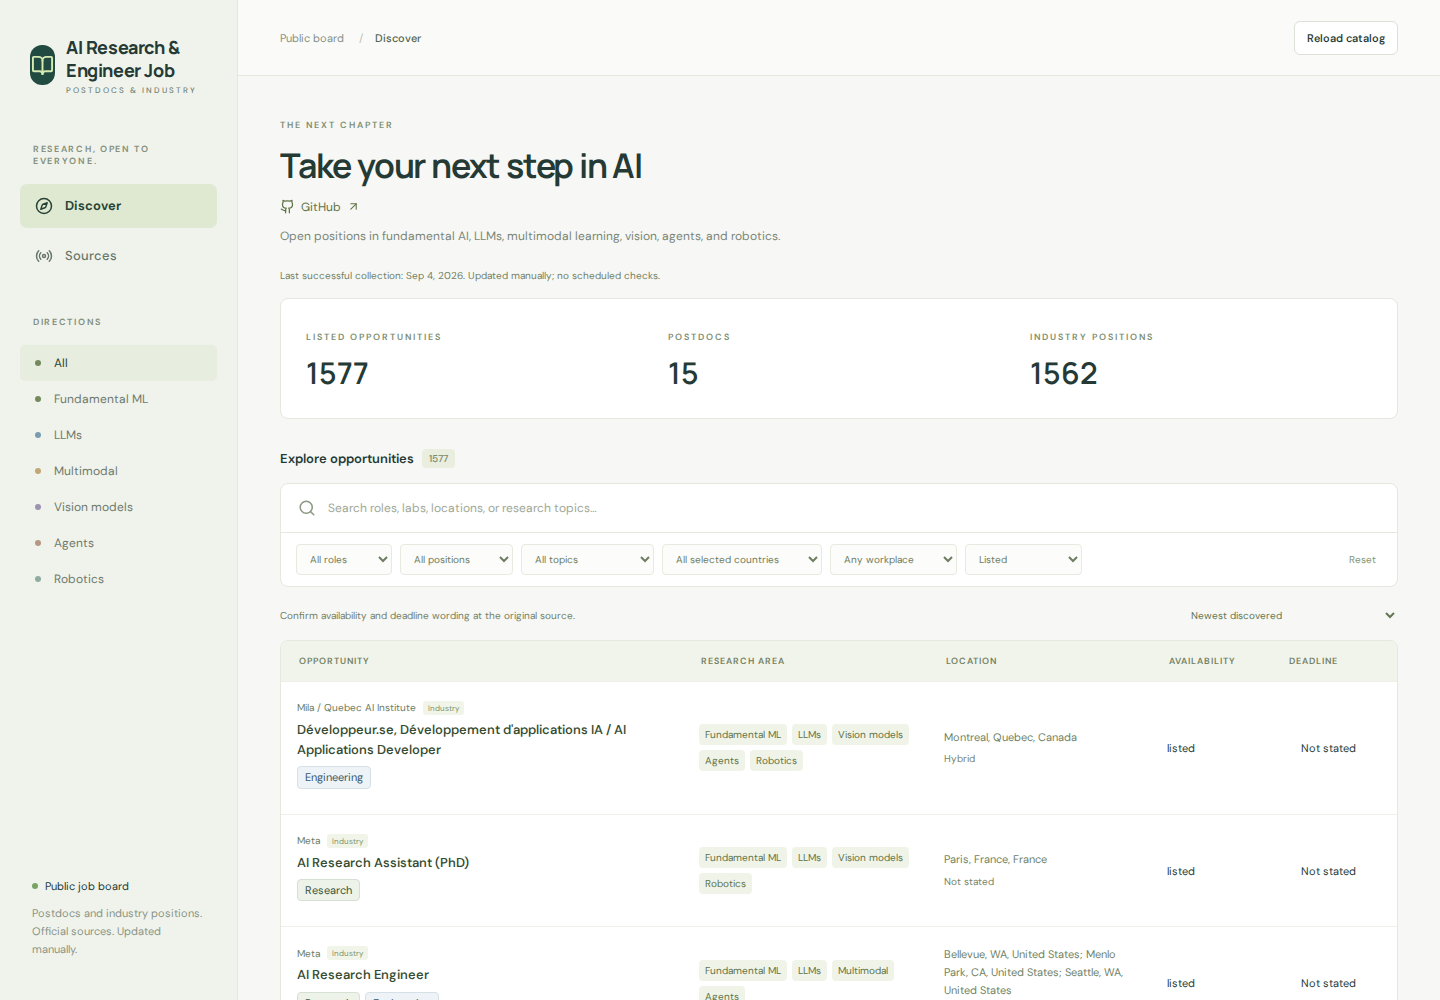
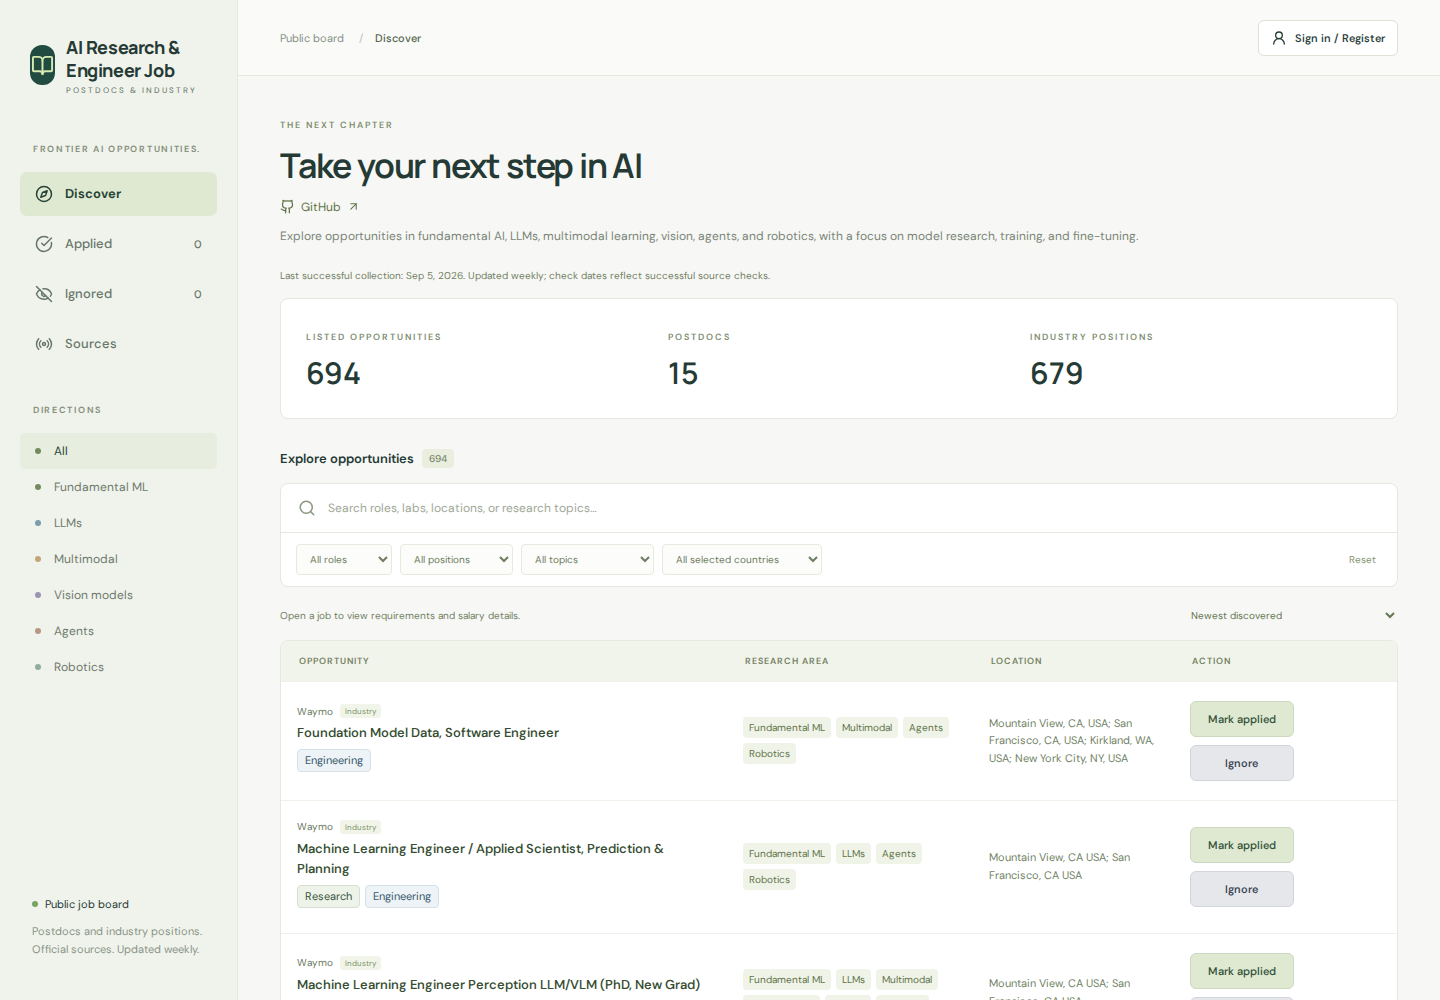
Publish public research opportunities

diff --git a/README.md b/README.md
@@ -2,14 +2,16 @@
 
 **Take your next step in AI.** Discover postdoctoral and industry opportunities
 across AI research and engineering, with searchable listings and links to the
-original employers.
+original employers. The focus is work that advances AI models and methods,
+including training, fine-tuning, evaluation research, and closely related systems—not
+roles that only integrate existing AI tools.
 
 ### [Open the job board →](https://ageyy.github.io/ai-career-tracker-public/)
 
 No account is needed to browse. Applications are made through the original
 posting, not through this website.
 
-![The AI job board showing search and filters, source verification dates, and a table of opportunities](website-preview.png)
+![The public AI job board with direction and position filters, Sign in, and Mark applied and Ignore actions](website-preview.png)
 
 *Public website screenshot captured September 5, 2026 (UTC). Listings and counts may
 change after an update.*
@@ -62,8 +64,8 @@ session) can erase it. Anyone with access to your browser profile can read it.
 Browser storage is shared by sites on the same origin; it is not account-level
 access control.
 
-When account login is enabled, **Sign in / Register** in the upper-right corner
-offers email/password login. Signup requires an email verification code; ordinary
+Choose **Sign in / Register** in the upper-right corner to log in or create an account using
+your email address and a password. Signup requires an email verification code; ordinary
 login does not. **Forgot password?** sends a recovery code to set a new password.
 Existing passwordless users can use it to set their first password. **My account**
 contains the account controls. Signed-in Applied/Ignored decisions sync through a private Supabase database.
@@ -74,7 +76,28 @@ decisions win, and browser copies stay unchanged. Signing out restores that sepa
 browser history. You can export account history or permanently delete the account.
 Authorized service administrators can access stored account data. Sign out on
 shared devices; browser sessions are not isolated from other scripts on the same
-origin. If login is not configured, browser-only saving remains available.
+origin. Registration is currently capped at **1,000 accounts**; browsing and
+browser-only saving remain available without registering.
+
+## Weekly email updates
+
+Weekly emails are **live and opt-in**. Signing up does not automatically subscribe you.
+
+1. Sign in and open **My account** in the upper-right corner.
+2. Under **Weekly email updates**, check **Receive weekly job updates**.
+3. Updates go to your account email—no separate email address is needed.
+
+After a successful Monday update is published, subscribers receive a digest with
+up to six example new opportunities and a link to the full board. The count and
+examples come from the same published catalog as the website. Existing jobs are
+not all announced as new, and no email is sent when there are no new opportunities.
+Manual updates do not trigger emails; their new additions can appear in the next
+weekly digest. Delivery can be delayed if an update or release check fails.
+
+Subscriptions are currently limited to **10 people**. Turn emails off in
+**My account** or use the unsubscribe link in an email. Bounces and spam complaints
+stop future digests. Emails are sent individually through Resend; subscriber
+addresses and Applied/Ignored history are not included in this public repository.
 
 ## Updates and reliability
 
